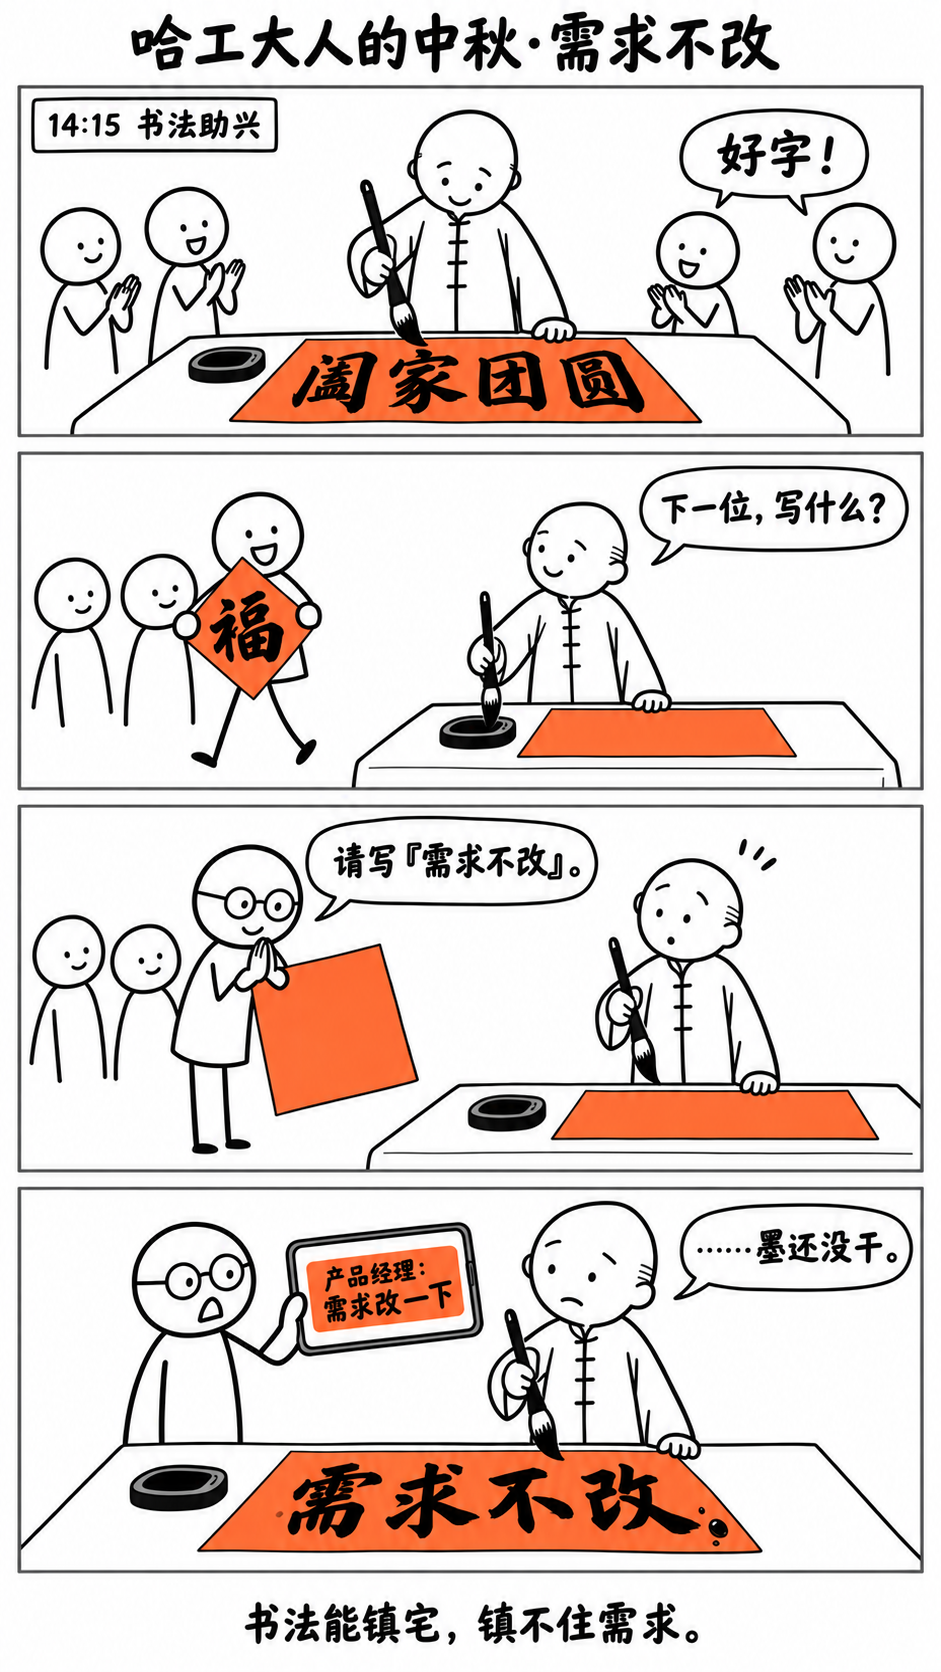
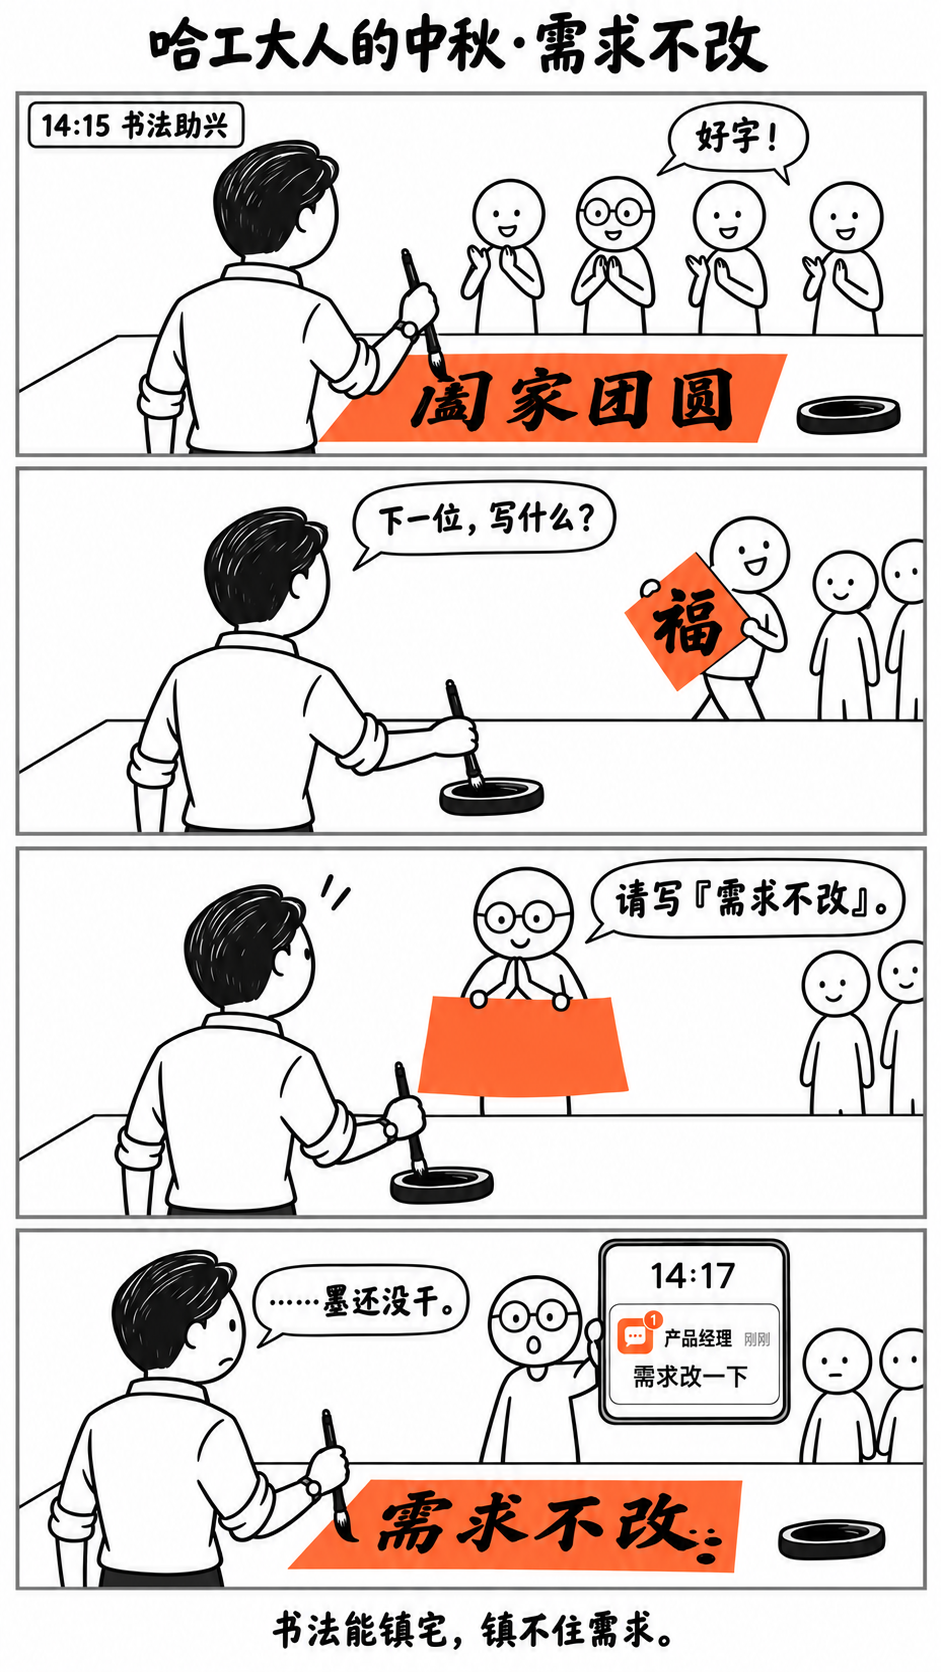
fix: redraw the hit-requirements-charm calligrapher and phone
The calligrapher becomes a capable middle-aged entrepreneur instead of
an old man, writes from the near side of the table so the characters
face him as in real writing, and the phone shows a lock-screen
notification card from 产品经理 at 14:17.

diff --git a/2026/09/hit-requirements-charm/zh/prompts/01-page-hit-requirements-charm.md b/2026/09/hit-requirements-charm/zh/prompts/01-page-hit-requirements-charm.md
@@ -4,20 +4,29 @@
 Art: minimalist | Tone: neutral | Layout: four-panel vertical | Aspect: 9:16
 
 ## Character Reference
-- 书法家: circle-head stick figure, older, dignified, wearing a long traditional robe outline,
-  holding a large calligraphy brush. Black and white.
+- 书法家: a capable, successful middle-aged entrepreneur in his forties: circle-head stick figure
+  with neat short side-parted hair (a few clean strokes), a crisp open-collar shirt with sleeves
+  rolled up, a wristwatch, upright confident posture. Not old: no bald head, no beard, no robe, no
+  wrinkles; not boyish either. Holds a large calligraphy brush. Black and white.
 - 工科校友: circle-head stick figure with round glasses, holding a smartphone. Black and white.
 - 校友们: a few plain circle-head stick figures watching and queuing. Black and white.
 - Faces: dot eyes, single-line mouth. No detailed faces.
 
+## Staging (all four panels)
+A long table seen from the calligrapher's side. The calligrapher stands on the near side of the
+table, in the foreground, seen from a three-quarter back view, facing away from the reader toward
+the people across the table. The sheet of paper lies flat on the table in front of him, so its
+characters are upright and read left to right for him and for the reader, exactly as in real
+writing. The alumni stand on the far side of the table, facing the reader.
+
 ## Panel Breakdown
-1. Top (Setup): calligrapher writes 「阖家团圆」 on orange red paper; crowd claps. 「好字！」
+1. Top (Setup): calligrapher finishes 「阖家团圆」 on orange red paper; crowd across claps. 「好字！」
 2. Upper-middle (Development): an alumnus leaves with 「福」; calligrapher dips brush.
    「下一位，写什么？」
-3. Lower-middle (Turn): engineer offers a blank orange sheet with palms together.
+3. Lower-middle (Turn): engineer across the table offers a blank orange sheet, palms together.
    「请写『需求不改』。」
-4. Bottom (Conclusion): 「需求不改」 written, ink wet; phone shows 「产品经理：需求改一下」.
-   「……墨还没干。」
+4. Bottom (Conclusion): 「需求不改」 written, ink wet; engineer's phone shows a lock-screen
+   notification card: 14:17, 产品经理, 刚刚, 需求改一下. 「……墨还没干。」
 
 ## Generation Prompt
 
@@ -28,39 +37,55 @@ cartoon illustration with clear black outlines on a pure white background and a 
 palette of black, white, and a single spot orange (#FF6B35) used only for key concepts.
 Characters are simplified stick figures with circle heads, dot eyes and single-line mouths,
 distinguished only by props. Characters stay black and white; orange is used only for the sheets
-of traditional red blessing paper (drawn flat orange) and for the phone notification banner. No
-shading, gradients, hatching, background fills, motion or speed lines, emphasis marks, or sound
-effects. Mostly blank white negative space. The image is fully opaque: a solid pure white
-(#FFFFFF) background fills the entire canvas, including the margins and gutters; no transparency
-and no alpha channel.
+of traditional red blessing paper (drawn flat orange) and for the app icon and badge in the phone
+notification. No shading, gradients, hatching, background fills, motion or speed lines, emphasis
+marks, or sound effects. Mostly blank white negative space. The image is fully opaque: a solid
+pure white (#FFFFFF) background fills the entire canvas, including the margins and gutters; no
+transparency and no alpha channel.
+
+The calligrapher in every panel is a capable, successful middle-aged entrepreneur in his forties:
+neat short side-parted hair, a crisp open-collar shirt with rolled-up sleeves, a wristwatch, an
+upright confident stance. He is not old (no bald head, no beard, no traditional robe) and not
+boyish. In every panel he stands on the near side of a long table in the foreground, seen from a
+three-quarter back view, facing away from the reader toward the people across the table. The paper
+lies flat on the table in front of him, so the brush characters are upright and read left to
+right for both him and the reader, the way a person really writes.
 
 Above the strip, a short hand-lettered title: 哈工大人的中秋·需求不改
 
-Top panel (Setup): A small corner label in the top-left reads "14:15 书法助兴". Behind a long
-table, the dignified older calligrapher in a long robe writes with a large brush on a wide orange
-sheet of blessing paper; the four bold black brush characters "阖家团圆" are clearly written on
-it. A few alumni stand around clapping. Speech bubble from the crowd: "好字！"
+Top panel (Setup): A small corner label in the top-left reads "14:15 书法助兴". The calligrapher,
+seen from behind at three-quarter view, lifts his brush just after finishing the last character on
+a wide orange sheet of blessing paper; the four bold black brush characters "阖家团圆" are upright
+and readable, written left to right, and the brush tip is just above the last character "圆".
+Across the table a few alumni face the reader, clapping. Speech bubble from the alumni: "好字！"
 
-Upper-middle panel (Development): An alumnus walks away happily, holding up a square orange sheet
-with one big black brush character "福". The calligrapher smiles and dips his brush in an ink
-stone, looking up for the next person. Speech bubble from the calligrapher: "下一位，写什么？"
+Upper-middle panel (Development): Same staging. Across the table, an alumnus walks away happily,
+holding up a square orange sheet with one big black brush character "福". The calligrapher, from
+behind, dips his brush in an ink stone on the table and raises his head toward the next person.
+Speech bubble from the calligrapher: "下一位，写什么？"
 
-Lower-middle panel (Turn, the strongest color emphasis): The stick figure with round glasses
-stands before the table, holding out a large blank orange sheet with both hands, bowing slightly
-with palms pressed together over it, earnest and devout, as if asking for a protective charm. The
-large blank orange sheet is the boldest element of the page. The calligrapher's brush freezes in
-mid-air, eyebrows raised. Speech bubble from the glasses figure: "请写『需求不改』。"
+Lower-middle panel (Turn, the strongest color emphasis): Same staging. Across the table, the
+stick figure with round glasses faces the reader, holding out a large blank orange sheet with both
+hands, bowing slightly with palms pressed together over it, earnest and devout, as if asking for a
+protective charm. The large blank orange sheet is the boldest element of the page. In the
+foreground, the calligrapher's brush freezes in mid-air, head tilted in surprise. Speech bubble
+from the glasses figure: "请写『需求不改』。"
 
-Bottom panel (Conclusion): On the table lies the orange sheet with four bold black brush
-characters "需求不改", ink still wet with a couple of small wet drops. The glasses figure holds up
-his smartphone; its screen shows an orange notification banner with the black text
-"产品经理：需求改一下", large and readable. The glasses figure is frozen, mouth open. The
-calligrapher, brush still in hand, looks from the paper to the phone. Speech bubble from the
+Bottom panel (Conclusion): Same staging. On the table in front of the calligrapher lies the orange
+sheet with four bold black brush characters "需求不改", upright and readable left to right, ink
+still wet with a couple of small wet drops. Across the table, the glasses figure, frozen with his
+mouth open, holds his smartphone up high with the screen facing the reader, drawn large and clear.
+The phone screen is designed like a clean lock screen: a large clock "14:17" at the top, and below
+it one rounded notification card with a thin black outline. In the card's top row: a small
+rounded-square orange app icon with a white chat-bubble symbol and a small orange badge "1", then
+the sender name "产品经理" in bold black, and a small gray "刚刚" at the far right. In the card's
+second row, larger black text: "需求改一下". No brand logos. In the foreground, the calligrapher
+turns his head to the side, showing his profile, looking at the phone. Speech bubble from the
 calligrapher: "……墨还没干。"
 
 Below the strip, a one-line hand-lettered caption: 书法能镇宅，镇不住需求。
 
 All text is in Simplified Chinese with full-width punctuation, spelled exactly as given. Speech
 bubbles, labels, title and caption use a rounded, thicker hand-lettered comic style; the
-characters on the blessing paper use a bold, clean, legible brush style. Keep text minimal. There
-are exactly 4 panels, with no extra panels.
+characters on the blessing paper use a bold, clean, legible brush style; the phone screen uses a
+clean, simple sans-serif. Keep text minimal. There are exactly 4 panels, with no extra panels.

diff --git a/2026/09/hit-requirements-charm/zh/storyboard.md b/2026/09/hit-requirements-charm/zh/storyboard.md
@@ -2,12 +2,16 @@
 
 强调色：橙 #FF6B35（红纸与手机通知）
 
+书法家：中年企业家，干练、意气风发（短发、衬衫挽袖、手表），不老也不嫩。
+书写方向：书法家站在桌子靠读者这一侧，背影/侧后方，面向桌对面的人写字；字对书法家和读者都
+是正的，从左往右写。
+
 | 格 | 位置 | 画面 | 台词 |
 |---|---|---|---|
-| 1 起 | 顶 | 角标「14:15 书法助兴」。书法家在长桌前挥毫，橙色红纸上「阖家团圆」，众人鼓掌。 | 「好字！」 |
-| 2 承 | 中上 | 一位校友捧着橙色红纸「福」满意离开；书法家笑眯眯蘸墨。 | 「下一位，写什么？」 |
-| 3 转 | 中下 | 工科校友双手捧上一张空白橙色红纸，一脸虔诚；书法家笔停半空。 | 「请写『需求不改』。」 |
-| 4 合 | 底 | 红纸上「需求不改」墨迹未干；工科校友手机亮起橙色通知「产品经理：需求改一下」；他石化，书法家看纸又看手机。 | 「……墨还没干。」 |
+| 1 起 | 顶 | 角标「14:15 书法助兴」。书法家侧后背影挥毫，刚写完最后一个字；橙色红纸上「阖家团圆」正向朝读者；桌对面众人鼓掌。 | 「好字！」 |
+| 2 承 | 中上 | 桌对面一位校友举着橙色红纸「福」满意离开；书法家蘸墨，抬头看下一位。 | 「下一位，写什么？」 |
+| 3 转 | 中下 | 桌对面，工科校友双手捧上一张空白橙色红纸，一脸虔诚；书法家笔停半空。 | 「请写『需求不改』。」 |
+| 4 合 | 底 | 桌上红纸「需求不改」墨迹未干；桌对面工科校友举起手机，屏幕是锁屏通知卡片（14:17；产品经理／刚刚／需求改一下）；他石化，书法家侧脸看向手机。 | 「……墨还没干。」 |
 
 标题：哈工大人的中秋·需求不改
 说明：书法能镇宅，镇不住需求。

diff --git a/2026/09/hit-requirements-charm/README.md b/2026/09/hit-requirements-charm/README.md
@@ -4,6 +4,8 @@ Chinese-only comic, episode 8 of the HIT Singapore alumni 中秋 series (episode
 hit-* themes of 2026/09). Not posted. No waiter, and not the 1982级 alumnus.
 
 Idea: at the 14:15 书法助兴 slot, people ask for 「阖家团圆」 and 「福」; the engineer asks for
-「需求不改」 as a charm, and before the ink dries his phone shows 「产品经理：需求改一下」. The
-calligrapher is generic and dignified, not any real person. Accent: orange for the red blessing
+「需求不改」 as a charm, and before the ink dries his phone shows a notification from 产品经理:
+「需求改一下」. The calligrapher is a capable middle-aged entrepreneur (revised from an old man at
+the user's request), generic, not any real person; he writes from the near side of the table so
+the characters face him the way real writing does. Accent: orange for the red blessing
 paper and the phone notification. Drafts: ../hit-noon-moon/ep8-ideas.md.
